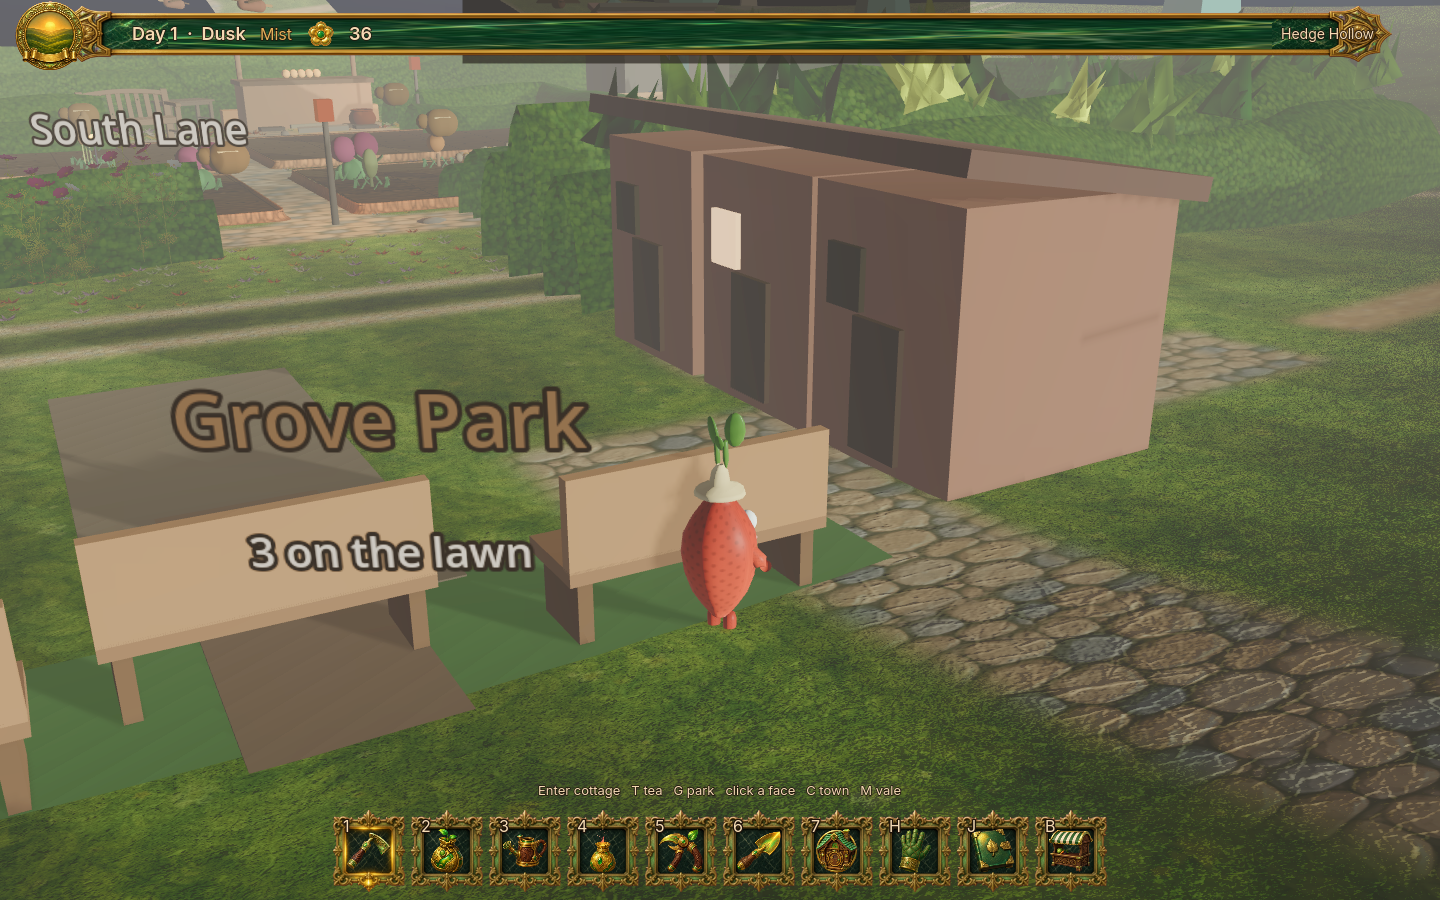
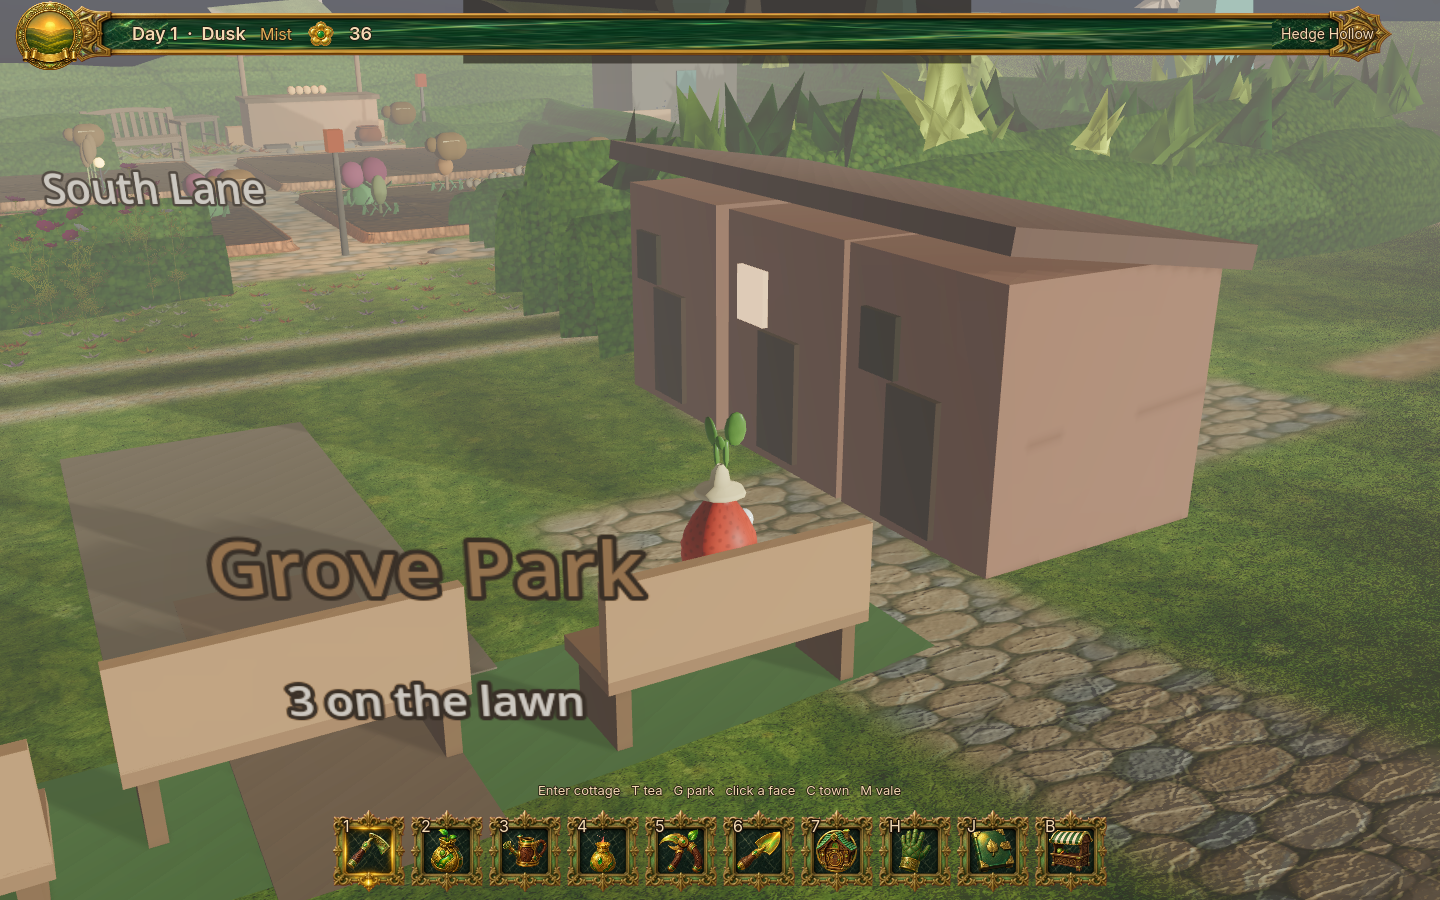
Sit the dusk household on the west park bench.

diff --git a/docs/CAMPAIGN_BOARD.md b/docs/CAMPAIGN_BOARD.md
@@ -2,11 +2,11 @@
 
 ## NOW
 
-Grove Park as a place the household already walks to: sit the dusk lawn on a bench, keep occupancy and day/night, do not flip the catalog or add a lamp.
+Jelly tactile/gel pass using the approved cut-outs already in tree. No new style. Do not cover the eyes.
 
 ## NEXT
 
-Jelly tactile/gel pass using the approved cut-outs already in tree. No new style.
+Keep Grove Park a place without a catalog flip: Lumen/Bram already stroll; household now sits the west bench at dusk. Water/foliage wait for the scooped pond.
 
 ## NEXT+
 
@@ -29,7 +29,7 @@ Paid OpenRouter, Higgsfield, Pi/NPU/hailo service edits, merge to `main`, openin
 - `PETAL_SHED_SHOT_OK` — Bram at the pan.
 - `PETAL_STALL_SHOT_OK` — Lumen at the counter.
 - `PETAL_GARDEN_LOOK_OK` — real garden overview, not a wireframe.
-- `LANE_LIFE_OK` `PETAL_LANE_LIFE_OK` — dusk walk to the lawn, night walk home, seated save stays outside.
+- `LANE_LIFE_OK` `PETAL_LANE_LIFE_OK` — dusk walk sits the west bench, night walk home, seated save stays outside.
 - Tea/jam mill and stall sales. One South Lane kitchen. G park walk.
 
 ## Do not rebuild

diff --git a/docs/CURRENT_STATE.md b/docs/CURRENT_STATE.md
@@ -65,7 +65,7 @@ Dummy ALSA `ERR_CANT_OPEN` and a GLES texture leak on quit. Expected.
 
 ## CURRENT MAJOR OBJECTIVE
 
-Grove Park as a used place: sit the dusk household on a bench already in the lawn. Do not flip `grove_park.active`.
+Jelly tactile/gel pass from the approved cut-outs. Eyes stay clear. No new style.
 
 ## NEXT TASKS
 
